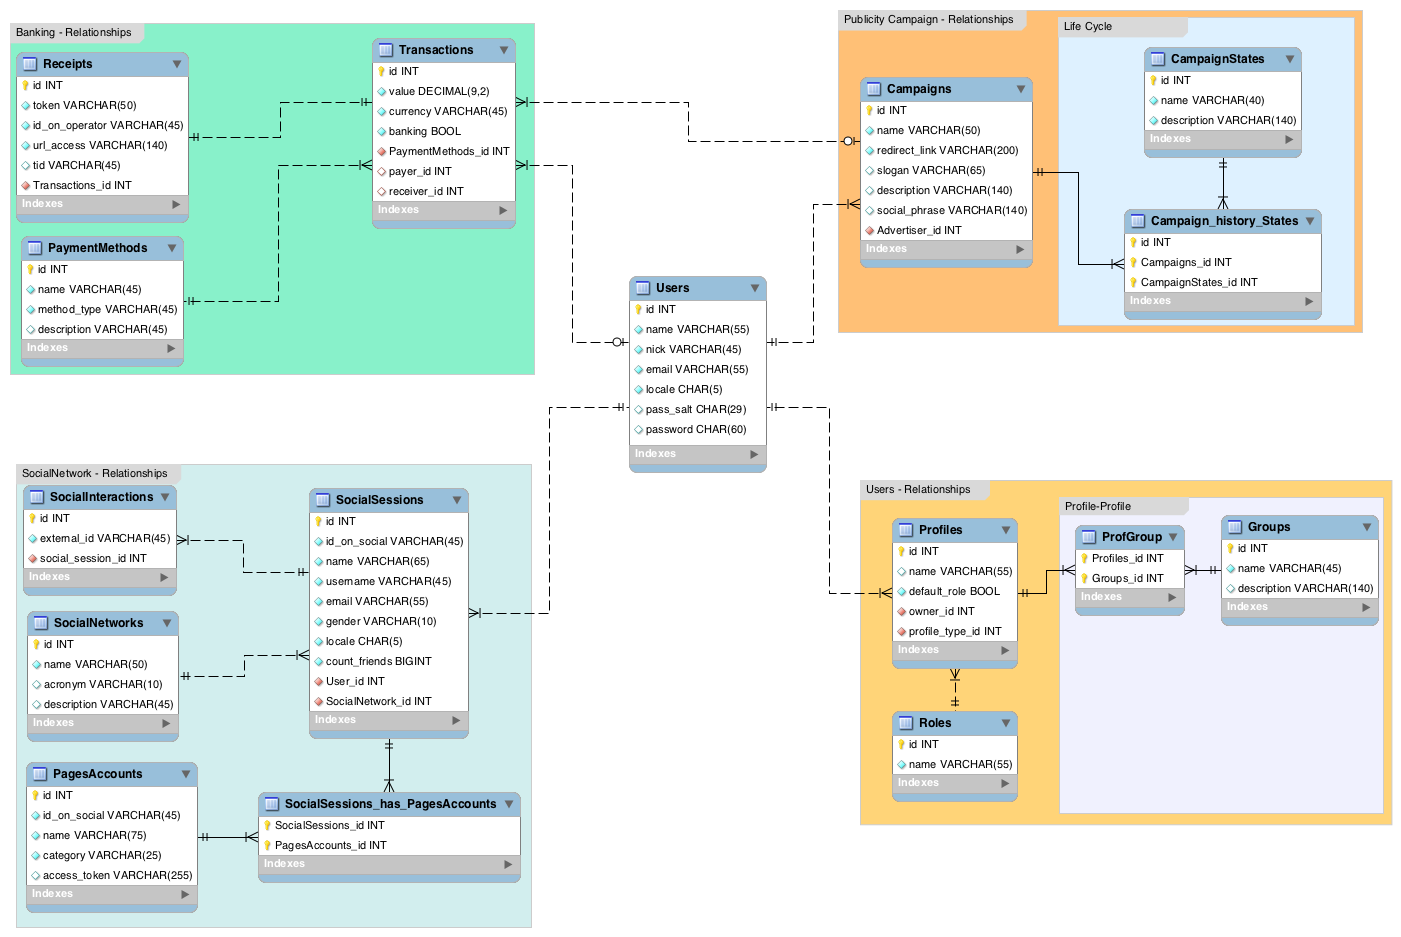
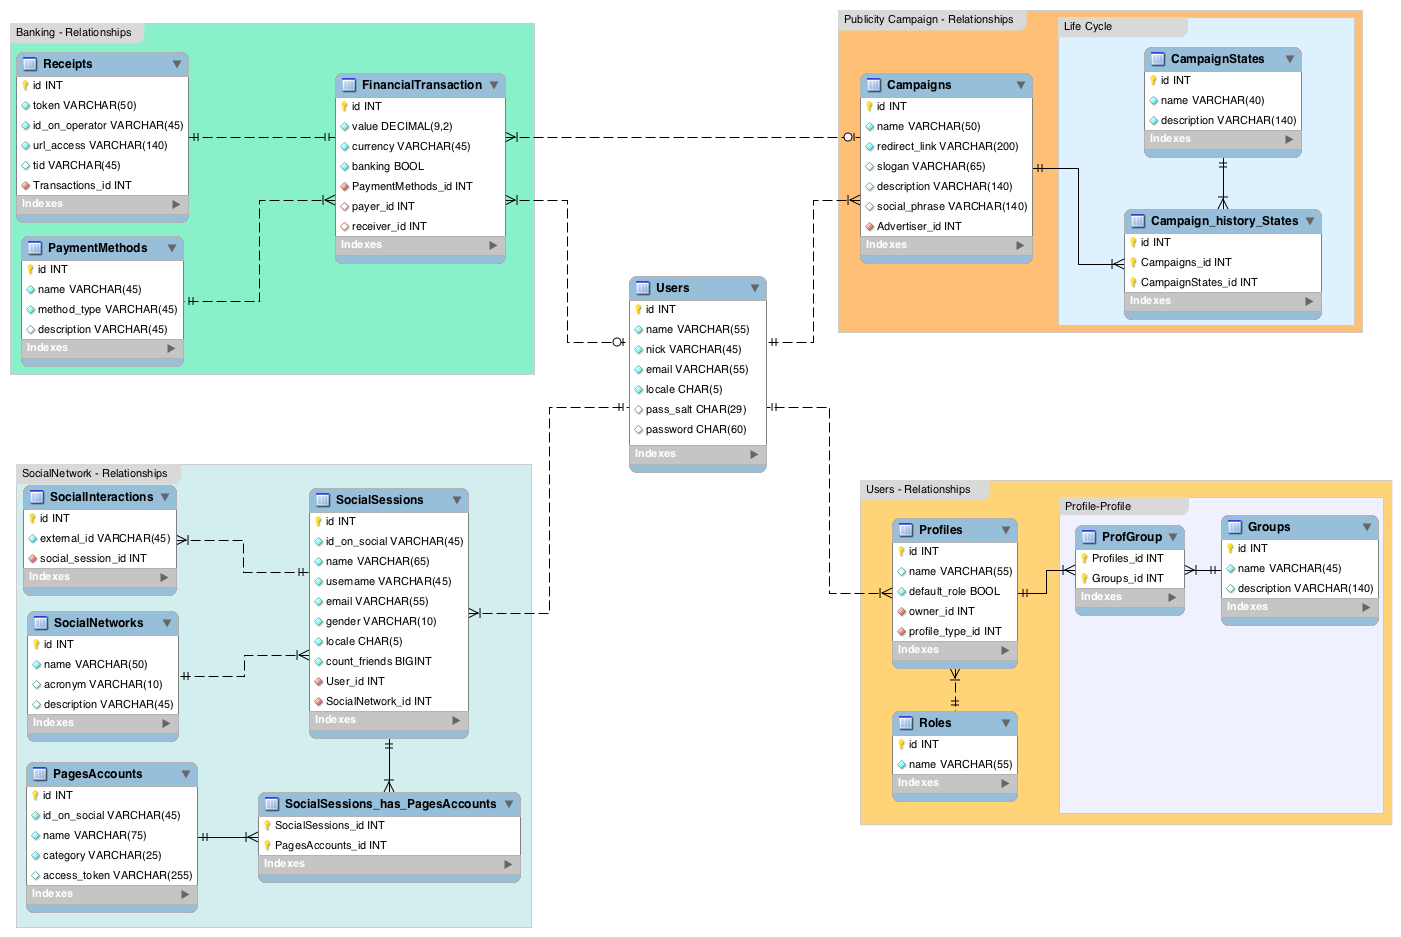
FinancialTransaction added as Transaction & associated to the receipt

Changed region(s): [[0.2148, 0.0309, 0.3683, 0.3095], [0.5832, 0.0619, 0.7366, 0.3095]]

diff --git a/app/models/financial_transaction.rb b/app/models/financial_transaction.rb
@@ -1,0 +1,17 @@
+class FinancialTransaction < ActiveRecord::Base
+  has_one :receipt
+  belongs_to :payment_method
+  belongs_to :payer, :class_name => 'Campaign', foreign_key: :payer_id
+  belongs_to :receiver, :class_name => 'User', foreign_key: :receiver_id
+
+  # Validates Attrs
+  validates :value, presence: true, on: [:create, :update]
+  validates :currency, presence: true, length: { in: 3..45 }, on: [:create, :update]
+  validates :banking, presence: true, on: [:create, :update]
+  validates :payment_method_id, presence: true, on: [:create, :update]
+
+  # Validates Associations
+  validates :payer_id , presence: true, on: [:create, :update]
+  validates :receiver_id, presence: true, on: [:create, :update]
+  validates :payment_method_id, presence: true, on: [:create, :update]
+end

diff --git a/db/migrate/20140605024545_create_financial_transactions.rb b/db/migrate/20140605024545_create_financial_transactions.rb
@@ -1,0 +1,14 @@
+class CreateFinancialTransactions < ActiveRecord::Migration
+  def change
+    create_table :financial_transactions do |t|
+      t.decimal :value, :decimal, precision: 9, scale: 2, null: false
+      t.string :currency, limit: 30, null: false
+      t.boolean :banking, null: false
+      t.belongs_to :payment_method, index: true
+      t.references :payer, index: true
+      t.references :receiver, index: true
+
+      t.timestamps
+    end
+  end
+end

diff --git a/db/migrate/20140605024546_create_receipts.rb b/db/migrate/20140605024546_create_receipts.rb
@@ -5,7 +5,7 @@ class CreateReceipts < ActiveRecord::Migration
       t.string :id_on_operator, limit: 45, null: false
       t.string :url_access, limit: 140, null: false
       t.string :tid, limit: 45, null: true
-      t.belongs_to :bank_transaction, index: true
+      t.belongs_to :financial_transactions, index: true
 
       t.timestamps
     end

diff --git a/app/models/receipt.rb b/app/models/receipt.rb
@@ -1,5 +1,5 @@
 class Receipt < ActiveRecord::Base
-  belongs_to :bank_transaction
+  belongs_to :financial_transaction
 
   # Attrs validations
   validates :token, presence: true, length: { in: 3..50 }, on: [:create, :update]

diff --git a/spec/factories/financial_transactions.rb b/spec/factories/financial_transactions.rb
@@ -1,0 +1,6 @@
+# Read about factories at https://github.com/thoughtbot/factory_girl
+
+FactoryGirl.define do
+  factory :financial_transaction do
+  end
+end

diff --git a/spec/models/financial_transaction_spec.rb b/spec/models/financial_transaction_spec.rb
@@ -1,0 +1,5 @@
+require 'spec_helper'
+
+describe FinancialTransaction do
+  pending "add some examples to (or delete) #{__FILE__}"
+end
